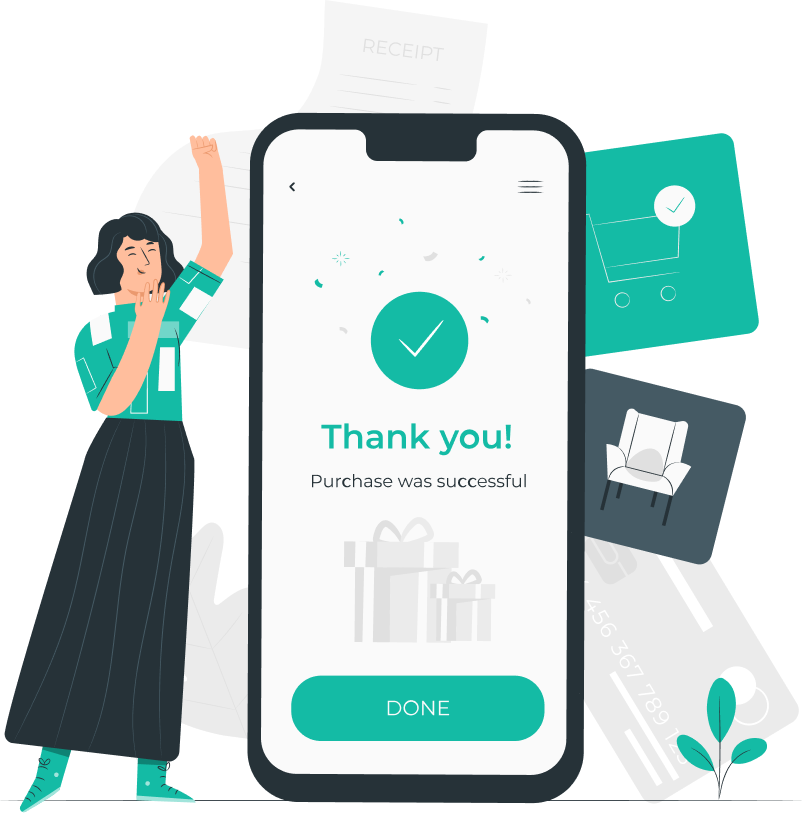
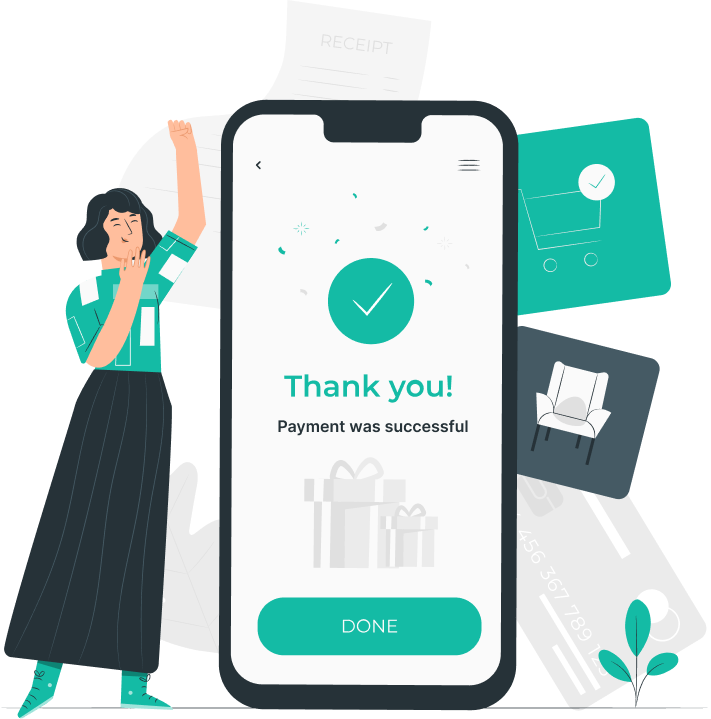
Frontend - react hot toast notification

diff --git a/src/main/road-bed-frontend/components/HeaderMenu.js b/src/main/road-bed-frontend/components/HeaderMenu.js
@@ -1,71 +1,81 @@
 import { remove } from "@/redux/userSlice";
+import {
+  HomeIcon,
+  LoginIcon,
+  LogoutIcon,
+  UserAddIcon,
+  UserIcon,
+} from "@heroicons/react/outline";
 import { signOut } from "next-auth/react";
 import Link from "next/link";
 import React, { useState } from "react";
 import { useDispatch } from "react-redux";
 
 function HeaderMenu({ isLoggedIn, userId }) {
-
-    const dispatch = useDispatch();
+  const dispatch = useDispatch();
 
   return (
     <div
       className="absolute rounded-lg border p-3 top-12 -left-1 w-[100px]
               sm:w-[150px] sm:-left-12 bg-white"
     >
-        {isLoggedIn ? (
-            <div>
-                <Link href="/login">
-                    <p
-                    className="p-1 cursor-pointer hover:scale-105 hover:text-teal-400
+      {isLoggedIn ? (
+        <div>
+          <Link href="/login">
+            <p
+              className="p-1 flex items-center space-x-2 cursor-pointer hover:scale-105 hover:text-teal-400
                                 transition duration-100 ease-out text-start"
-                    >
-                    Login
-                    </p>
-                </Link>
-                <div className="border my-1" />
-                <Link href="/register">
-                    <p
-                    className="p-1 cursor-pointer hover:scale-105 hover:text-teal-400
+            >
+              <LoginIcon className="w-5 h-5" />
+              <span>Login</span>
+            </p>
+          </Link>
+          <div className="border my-1" />
+          <Link href="/register">
+            <p
+              className="p-1 flex items-center space-x-2 cursor-pointer hover:scale-105 hover:text-teal-400
                             transition duration-100 ease-out text-start"
-                    >
-                    Register
-                    </p>
-                </Link>
-            </div>
-        ) : (
-            <div> 
-                <Link href="/create">
-                    <p
-                    className="p-1 cursor-pointer hover:scale-105 hover:text-teal-400
+            >
+              <UserAddIcon className="w-5 h-5" />
+              <span>Register</span>
+            </p>
+          </Link>
+        </div>
+      ) : (
+        <div>
+          <Link href="/create">
+            <p
+              className="p-1 flex items-center cursor-pointer hover:scale-105 hover:text-teal-400
                                 transition duration-100 ease-out text-start"
-                    >
-                    Create House
-                    </p>
-                </Link>
-                <div className="border my-1" />
-                <Link href={`/profile/${userId}`}>
-                    <p
-                    className="p-1 cursor-pointer hover:scale-105 hover:text-teal-400
+            >
+              <HomeIcon className="w-5 h-5" />
+              <span>Create House</span>
+            </p>
+          </Link>
+          <div className="border my-1" />
+          <Link href={`/profile/${userId}`}>
+            <p
+              className="p-1 flex items-center space-x-2 cursor-pointer hover:scale-105 hover:text-teal-400
                                 transition duration-100 ease-out text-start"
-                    >
-                    Profile
-                    </p>
-                </Link>
-                <div className="border my-1" />
-                <p
-                className="p-1 cursor-pointer hover:scale-105 hover:text-teal-400
+            >
+              <UserIcon className="w-5 h-5" />
+              <span>Profile</span>
+            </p>
+          </Link>
+          <div className="border my-1" />
+          <p
+            className="p-1 flex items-center space-x-2 cursor-pointer hover:scale-105 hover:text-teal-400
                         transition duration-100 ease-out text-start"
-                        onClick={() => {
-                            dispatch(remove())
-                            signOut()
-                        }}
-                >
-                    Logout
-                </p>
-            </div>
-
-        )}
+            onClick={() => {
+              dispatch(remove());
+              signOut();
+            }}
+          >
+            <LogoutIcon className="w-5 h-5" />
+            <span>Logout</span>
+          </p>
+        </div>
+      )}
     </div>
   );
 }

diff --git a/src/main/road-bed-frontend/pages/detail/[houseId].js b/src/main/road-bed-frontend/pages/detail/[houseId].js
@@ -17,6 +17,7 @@ import { useSession } from "next-auth/react";
 import { useRouter } from "next/router";
 import { useDispatch } from "react-redux";
 import { add, remove } from "@/redux/houseSlice";
+import { toast, Toaster } from "react-hot-toast";
 
 function HouseDetail({ house, firstImage, secondImage, thirdImage, tenant }) {
   const { data: session } = useSession();
@@ -78,13 +79,43 @@ function HouseDetail({ house, firstImage, secondImage, thirdImage, tenant }) {
   };
 
   const handleFavoriteHouseIcon = () => {
-    if (!isFavorite) {
-      userService.addHouseToFavorites(user?.userId, house).then((res) => {
-        if (res.status === 200) setIsFavorite(true);
-      });
+    if (session) {
+      if (!isFavorite) {
+        toast.promise(
+          userService.addHouseToFavorites(user?.userId, house).then((res) => {
+            if (res.status === 200) setIsFavorite(true);
+          }),
+          {
+            loading: "Saving...",
+            success: <b>Added to favourites!</b>,
+            error: <b>Could not added.</b>,
+          }
+        );
+      } else {
+        toast.promise(
+          userService
+            .removeHouseFromFavorites(user?.userId, house)
+            .then((res) => {
+              if (res.status === 200) setIsFavorite(false);
+            }),
+          {
+            loading: "Removing...",
+            success: <b>Removed from favourites!</b>,
+            error: <b>Could not removed.</b>,
+          }
+        );
+      }
     } else {
-      userService.removeHouseFromFavorites(user?.userId, house).then((res) => {
-        if (res.status === 200) setIsFavorite(false);
+      toast.error("Please login to add to favourites.", {
+        style: {
+          border: "1px solid #ed6172",
+          padding: "8px",
+          color: "#ed6172",
+        },
+        iconTheme: {
+          primary: "#ed6172",
+          secondary: "#FFFAEE",
+        },
       });
     }
   };
@@ -95,25 +126,39 @@ function HouseDetail({ house, firstImage, secondImage, thirdImage, tenant }) {
   };
 
   const goToPayment = () => {
-    dispatch(remove());
+    if (session) {
+      dispatch(remove());
 
-    const days = calculateDaysBetweenDates()
-    const houseForReserve = {
-      houseId: house.houseId,
-      city: house.city,
-      startDate: startDate,
-      endDate: endDate,
-      days: days,
-      totalPrice: selectedDayCount * house.price + 100,
-    };
-    dispatch(add(houseForReserve));
-    router.push("/payment");
+      const days = calculateDaysBetweenDates();
+      const houseForReserve = {
+        houseId: house.houseId,
+        city: house.city,
+        startDate: startDate,
+        endDate: endDate,
+        days: days,
+        totalPrice: selectedDayCount * house.price + 100,
+      };
+      dispatch(add(houseForReserve));
+      router.push("/payment");
+    } else {
+      toast.error("Please login to reserve a house.", {
+        style: {
+          border: "1px solid #ed6172",
+          padding: "8px",
+          color: "#ed6172",
+        },
+        iconTheme: {
+          primary: "#ed6172",
+          secondary: "#FFFAEE",
+        }
+      });
+    }
   };
 
   return (
     <div className="pb-10">
       <Header />
-
+      <Toaster position="top-right" />
       <div className="max-w-7xl mx-auto">
         <div className="grid grid-cols-1 sm:grid-cols-2 px-6 py-12 w-full h-64">
           {/* Images */}
@@ -162,14 +207,14 @@ function HouseDetail({ house, firstImage, secondImage, thirdImage, tenant }) {
                 <Image
                   className="h-8 w-8 object-cover rounded-full"
                   src={
-                    tenant?.profilePicture ||
+                    tenant?.profilePicture?.imageUrl ||
                     "https://res.cloudinary.com/dspea8wm4/image/upload/v1676743195/default_profile_pic_aqsicv.jpg"
                   }
                   width={100}
                   height={100}
                 />
                 <p className="pl-2 text-gray-600 text-md ">Your Host: </p>
-
+                   
                 <p className="pl-2 text-gray-600 text-md font-semibold">
                   {house.owner.fullName}
                 </p>

diff --git a/src/main/road-bed-frontend/pages/create.js b/src/main/road-bed-frontend/pages/create.js
@@ -7,6 +7,7 @@ import { useSession } from "next-auth/react";
 import { useRouter } from "next/router";
 import React, { useEffect, useRef, useState } from "react";
 import { useForm } from "react-hook-form";
+import { toast, Toaster } from "react-hot-toast";
 
 function Create({ cities, categories }) {
   const { data: session } = useSession();
@@ -61,10 +62,27 @@ function Create({ cities, categories }) {
     selectedImageFiles.forEach((imageFile) =>
       formData.append("multipartFile", imageFile)
     );
-    houseService.save(formData).then((res) => {
-      if(res.status === 200)
-        router.push("/detail/" + res.data.houseId);
-    });
+    toast.promise(
+      houseService.save(formData).then((res) => {
+        if(res.status === 200)
+          router.push("/detail/" + res.data.houseId);
+      }),
+      {
+        loading: 'Your house is saving...',
+        success: <b>House saved!</b>,
+        error: <b>Could not save.</b>,
+      },{
+        style: {
+          border: '1px solid #14b8a5',
+          padding: '16px',
+          color: '#14b8a5',
+        },
+        iconTheme: {
+          primary: '#14b8a5',
+          secondary: '#FFFAEE',
+        },
+      }
+    )
   };
 
   const selectImageUrl = (e) => {
@@ -111,6 +129,7 @@ function Create({ cities, categories }) {
   return (
     <div className="relative">
       <Header />
+      <Toaster position="top-center" />
       <div className="max-w-7xl mx-auto my-4">
         <div className="grid grid-cols-1 sm:grid-cols-2">
           <div>

diff --git a/src/main/road-bed-frontend/components/MyHouseCard.js b/src/main/road-bed-frontend/components/MyHouseCard.js
@@ -2,6 +2,7 @@ import HouseService from "@/services/houseService";
 import { useSession } from "next-auth/react";
 import Image from "next/image";
 import React from "react";
+import { toast, Toaster } from "react-hot-toast";
 
 function MyHouseCard({house}) {
   const {data: session} = useSession();
@@ -9,13 +10,29 @@ function MyHouseCard({house}) {
   const houseService = new HouseService(session);
 
   const deleteHouse = () => {
-    houseService.delete(house).then(res => {
-      console.log(res.data)
-    })
+    toast.promise(
+      houseService.delete(house),
+        {
+          loading: 'Your house is removing...',
+          success: <b>House removed!</b>,
+          error: <b>Could not remove.</b>,
+        },{
+          style: {
+            border: '1px solid #14b8a5',
+            padding: '16px',
+            color: '#14b8a5',
+          },
+          iconTheme: {
+            primary: '#14b8a5',
+            secondary: '#FFFAEE',
+          },
+        }
+    )
   }
 
   return (
     <div>
+      <Toaster position="top-center" />
       <div
         className="flex justify-between border border-1 border-gray-200 shadow-md rounded-lg my-2
           hover:scale-105 transition-all transform duration-200 ease-in-out cursor-pointer"

diff --git a/src/main/road-bed-frontend/pages/success.js b/src/main/road-bed-frontend/pages/success.js
@@ -15,16 +15,19 @@ function Success() {
       <Header />
 
       <div className="max-w-7xl mx-auto mt-16">
-        <div className="flex flex-col items-center">
+        <div className="flex flex-col items-center px-8 sm:px-6 md:px-0">
           <h1 className="uppercase font-extrabold text-3xl text-teal-600">
             Payment is successful!
           </h1>
-          <p className="text-xl mt-8 font-medium">
-            Your reservation is taken in {reservation.city?.cityName} for {reservation.days} days
-            between dates {startDate} and {endDate}.
+          <p className="text-xl mt-8 text-center font-medium">
+            Your reservation has been received in{" "}
+            <span className="font-bold"> {reservation.city?.cityName} </span>
+            for <span className="font-bold">{reservation.days} </span> days from{" "}
+            <span className="font-bold"> {startDate} </span> to{" "}
+            <span className="font-bold"> {endDate} </span>.
           </p>
           <p className="text-xl my-4 font-medium">
-            We wish best wishes you to enjoy your visit.
+            We hope you enjoy your visit.
           </p>
           <img className="w-1/2" src="/success_bg.png" alt="" />
         </div>
